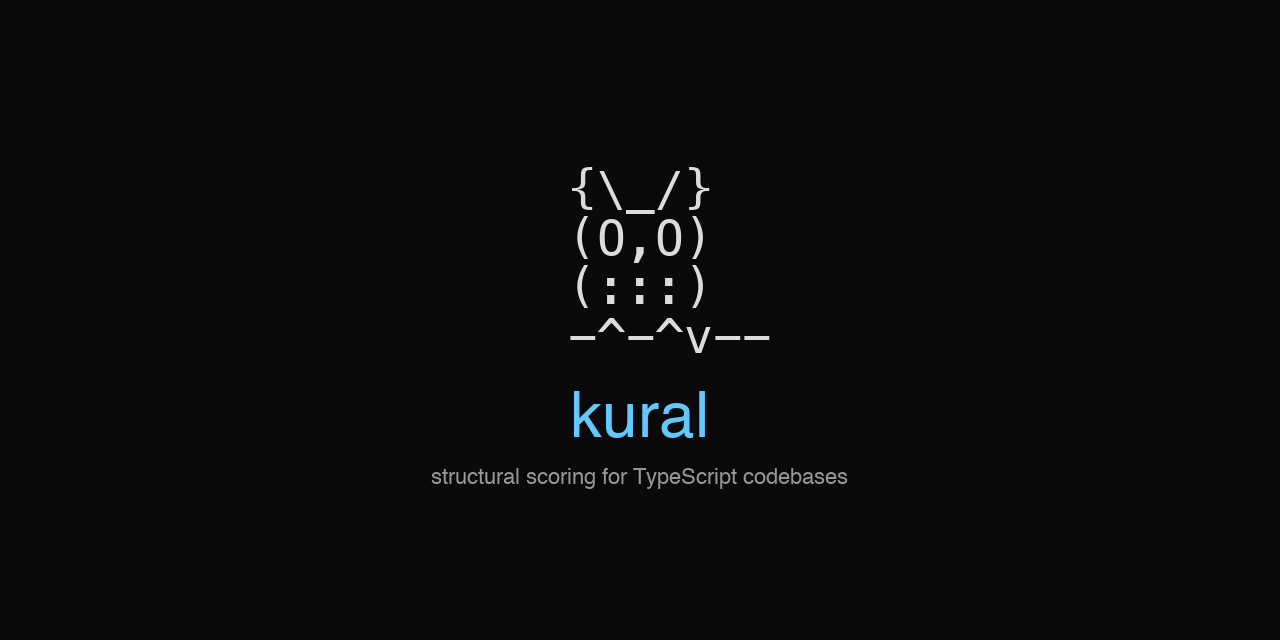
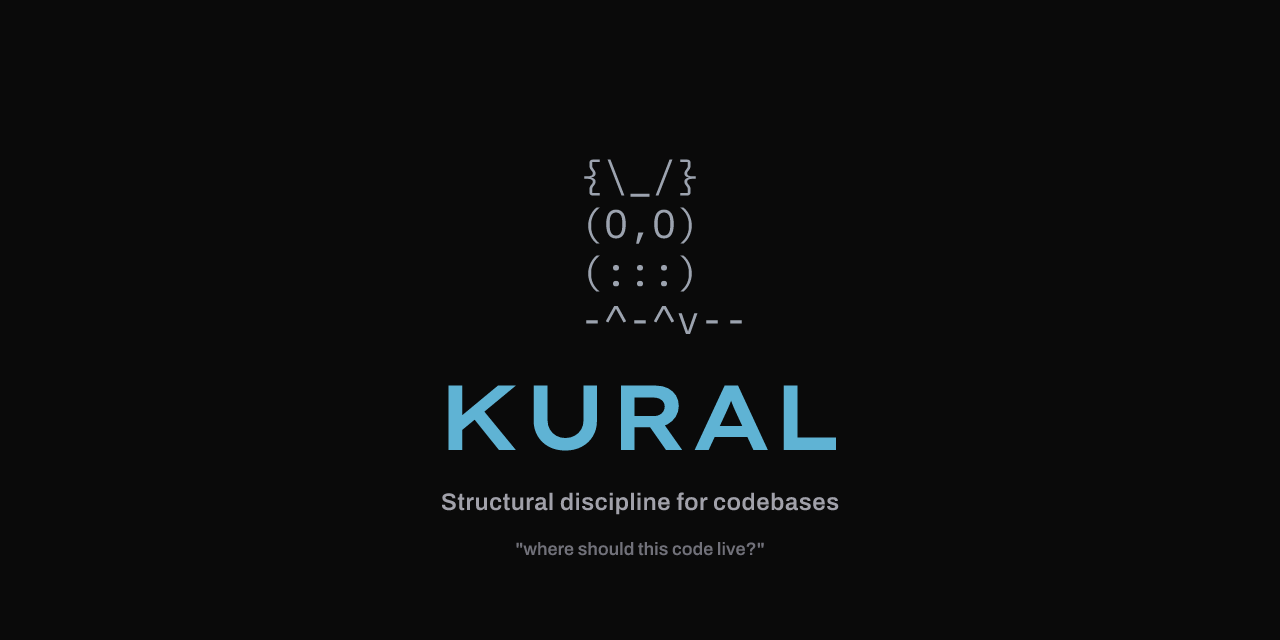
docs: add FAQ, reframe around structural discipline (#27)
* docs: add FAQ, reframe architecture around pillars, fix stale links and history path

Adds a reference-section FAQ covering 15 skeptic questions, restructures the
architecture page to lead with the four pillars (replacing the five-stage
pipeline framing that hid Audit and Place under "Query"), and folds the
actionable parts of the old pipeline into a "How snapshots are built and
cached" section. Fixes the Tuning page link to Configuration (was 404),
corrects the history snapshot path in infrastructure/db to match source
(history/<snapshot-id>.db), and extends the ask-user callout in place.mdx
with agent-specific guidance.

* docs: reframe around structural discipline and embeddings-not-LLMs

Position kural as a discipline layer for codebases — the structural
counterpart to what TypeScript does for types — and lead the docs with
the one-shot vs placement gap that motivates the project. Adds new
intro sections (Why this matters / A discipline layer / Practical and
cheap by design), restructures the index card grid into Start here and
Deep dive, and adds a "Why embeddings, not LLMs" section to the
Architecture page covering the cost and local-execution rationale.

Refreshes the FAQ (linter answer pivots to the type-system analogy,
agent workflow as pre-flight/post-flight checks, RAG comparison adds
the embedding-tier cost angle), the AI Editors opening, the Getting
Started lead-in, and the Place pillar's opening. Aligns project-wide
[…]

Changed region(s): [[0.3438, 0.5938, 0.6562, 0.8125], [0.4375, 0.25, 0.5938, 0.5625], [0.4062, 0.8438, 0.5938, 0.875]]

diff --git a/docs-site/src/routes/index.tsx b/docs-site/src/routes/index.tsx
@@ -101,7 +101,7 @@ function Home() {
               <ChevronRight className="w-3.5 h-3.5 text-fd-muted-foreground group-hover:text-fd-primary group-hover:translate-x-0.5 transition-all duration-300" />
             </Link>
             <p className="text-[11px] uppercase tracking-[0.08em] mb-3 text-[hsl(187,50%,35%)] dark:text-[hsl(187,40%,55%)]">
-              Structural scoring for TypeScript
+              Structural discipline for codebases
             </p>
             <h1
               className="flex items-center gap-4 text-5xl md:text-6xl lg:text-7xl font-semibold tracking-tighter text-fd-foreground mb-5 leading-[1.05]"

diff --git a/docs-site/docs.config.ts b/docs-site/docs.config.ts
@@ -2,8 +2,7 @@ import type { DocsConfig } from "./src/lib/config";
 
 const config: DocsConfig = {
   name: "Kural",
-  description:
-    'Structural scoring system for TypeScript codebases — answers "where should this code live?"',
+  description: 'Structural discipline for codebases — answers "where should this code live?"',
   url: "https://razyones.github.io/kural",
   content: "../docs",
   nav: {

diff --git a/README.md b/README.md
@@ -8,7 +8,7 @@
            └──────────────────────────────────────
 ```
 
-Structural scoring system for TypeScript codebases — answers **"where should this code live?"**
+Structural discipline for codebases — answers **"where should this code live?"**
 
 > **Early stage project** — Kural is under active development and evolving rapidly. Check out [Projects](../../projects) for the roadmap ahead. We welcome feedback, ideas, and contributions — reach out at **hello@razyones.com** to collaborate or share your thoughts.
 
@@ -28,16 +28,16 @@ Kural embeds every type, function, file, and directory into vector space, measur
 
 AI coding agents write code. They add functions, create files, move things around. But they have no idea whether the code they just wrote landed in the right place. They can't see that the function they added to `utils/` is semantically identical to one in `core/`, or that the file they created in `commands/` drifts toward the analysis engine's vocabulary.
 
-Kural gives your codebase a structural map. **Kural skills give your AI assistant the ability to read that map.**
+Kural gives your codebase a structural map. **Kural skills teach your AI assistant the structural discipline** — the same role a type system plays for a typed-language agent. Without a type checker, an agent writes code that runs but breaks contracts. Without structural discipline, an agent writes code that works but rots the codebase.
 
-Without skills, the agent generates code blind to structure. With skills, it knows the four-phase resolution pipeline, understands why descriptions carry 50% weight in the identity vector, and can work through audit findings methodically — fixing docs before restructuring, restructuring before suppressing.
+With skills, the agent knows the four-phase resolution pipeline, understands why descriptions carry 50% weight in the identity vector, and works through audit findings methodically — fixing docs before restructuring, restructuring before suppressing. Brief is its pre-flight check; audit is its post-flight check.
 
 This is the difference between an agent that writes code and an agent that writes code **in the right place**.
 
 <Callout type="warn">
-  An AI agent without structural awareness will accumulate architectural debt faster than a human
+  An AI agent without structural discipline will accumulate architectural debt faster than a human
   developer — it produces more code per hour but has zero intuition about where that code belongs.
-  Kural skills are the structural intuition layer.
+  Kural skills are the discipline layer.
 </Callout>
 
 ## Install
@@ -207,13 +207,14 @@ JSDoc annotations that declare structural realities the vector space can't captu
 
 ## How it works
 
-Kural is a five-stage pipeline:
+Kural is built on four pillars:
 
-1. **Parse** — Walk the filesystem, extract functions, types, and descriptions from the AST
-2. **Embed** — Produce identity and leaf vectors via 7-facet embedding (name, description, path, signature, causes, calls, parent context)
-3. **Score** — Compute fit, uniqueness, and subtree health for every node
-4. **Store** — Persist units, scores, and metadata to a SQLite snapshot
-5. **Query** — Read snapshots for scoring, auditing, and comparison
+1. **Embed** — place every type, function, file, and directory in vector space using 7-facet embedding (name, description, path, signature, causes, calls, parent context)
+2. **Score** — measure fit, uniqueness, and subtree health for every node
+3. **Audit** — surface specific structural issues with statistical fences calibrated from the codebase's own distributions
+4. **Place** — route new units against the well-distributed space and retrieve the surrounding context an agent needs before implementing
+
+See [Architecture](docs/architecture.mdx) for how the pillars are implemented — snapshot generation, caching, the embeddings-not-LLMs design choice, and the local/server tier split.
 
 ### Scoring metrics
 
@@ -253,12 +254,12 @@ Every node gets a score card:
 ### Topics
 
 - [Getting Started](docs/getting-started.mdx) — installation, codebase preparation, and first run
-- [Architecture](docs/architecture.mdx) — pipeline, tiers, data model, and sync design
+- [Architecture](docs/architecture.mdx) — pillars, tiers, data model, and sync design
 - [Embedding](docs/foundation/embedding.mdx) — 7-facet embedding with structural signals
 - [Scoring](docs/pillars/scoring.md) — fit, uniqueness, and subtree health metrics
 - [Audits](docs/pillars/audits.mdx) — 14 statistical checks for structural issues
 - [Kural Params](docs/codebase-realities/kural-params.md) — annotations for codebase realities
-- [Database](docs/db.md) — SQLite snapshot persistence and schema
+- [Database](docs/infrastructure/db.md) — SQLite snapshot persistence and schema
 
 ## Acknowledgments
 

diff --git a/docs/infrastructure/db.md b/docs/infrastructure/db.md
@@ -152,7 +152,7 @@ Known keys:
 1. Parse target path into units (files, types, functions, directories)
 2. Load embedding cache from current `active.db` (if exists and model matches)
 3. Embed uncached units (7-pass faceted embedding)
-4. Rotate current `active.db` to `history/kural-history-<snapshot-id>.db`
+4. Rotate current `active.db` to `history/<snapshot-id>.db`
 5. Create fresh `active.db`, write metadata, parsed units, and scores
 6. Evict oldest history snapshot if count exceeds 10
 

diff --git a/CLAUDE.md b/CLAUDE.md
@@ -89,7 +89,7 @@ For GitHub Actions, consider using [`voidzero-dev/setup-vp`](https://github.com/
 
 # Project: kural
 
-Structural scoring system for TypeScript codebases — answers "where should this code live?"
+Structural discipline for codebases — answers "where should this code live?" Today targets TypeScript codebases; the structural concepts (fit, uniqueness, audits, placement) are language-agnostic and the ingestion pipeline is what's TypeScript-specific.
 
 ## Architecture
 

diff --git a/skills/kural-audit/SKILL.md b/skills/kural-audit/SKILL.md
@@ -6,7 +6,7 @@ argument-hint: [audit-name or path]
 
 ## Resolve Audit
 
-Help the user study and resolve kural audit findings. Kural detects structural issues in TypeScript codebases — misplaced code, duplicates, poor naming, vocabulary bleed, missing docs, and more.
+Help the user study and resolve kural audit findings. Kural detects structural issues in codebases — misplaced code, duplicates, poor naming, vocabulary bleed, missing docs, and more.
 
 ### Arguments
 
